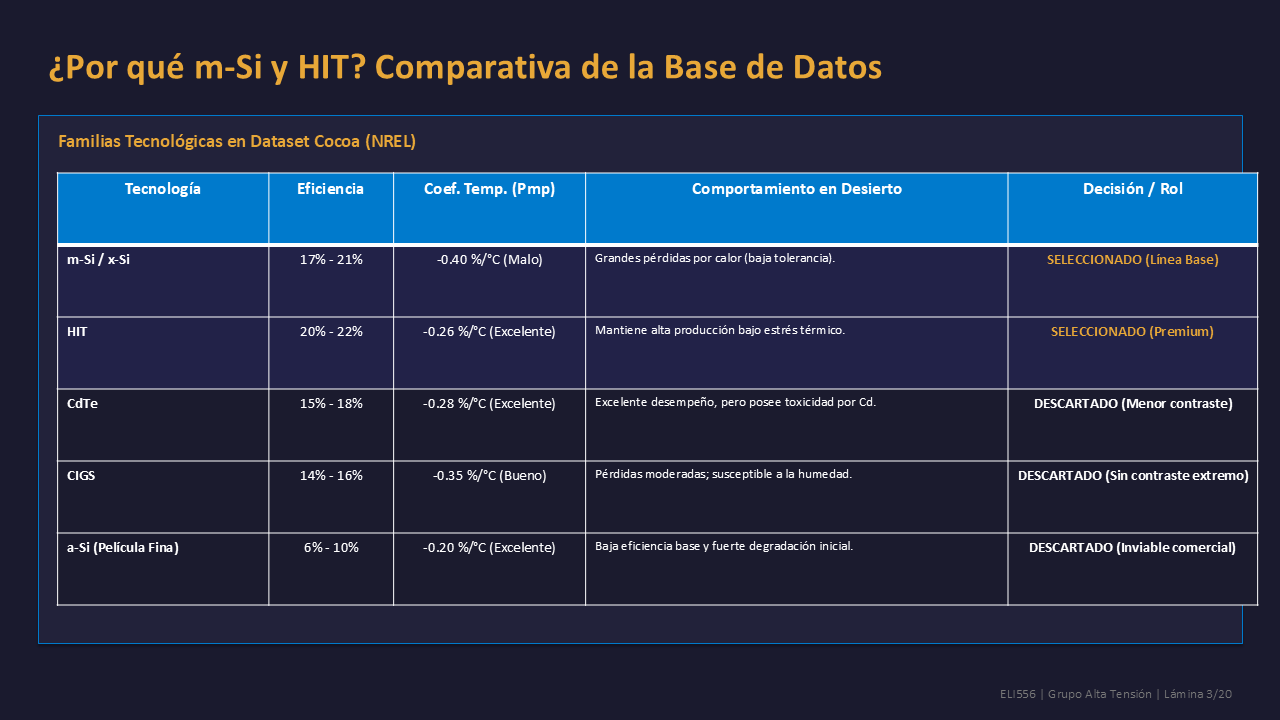
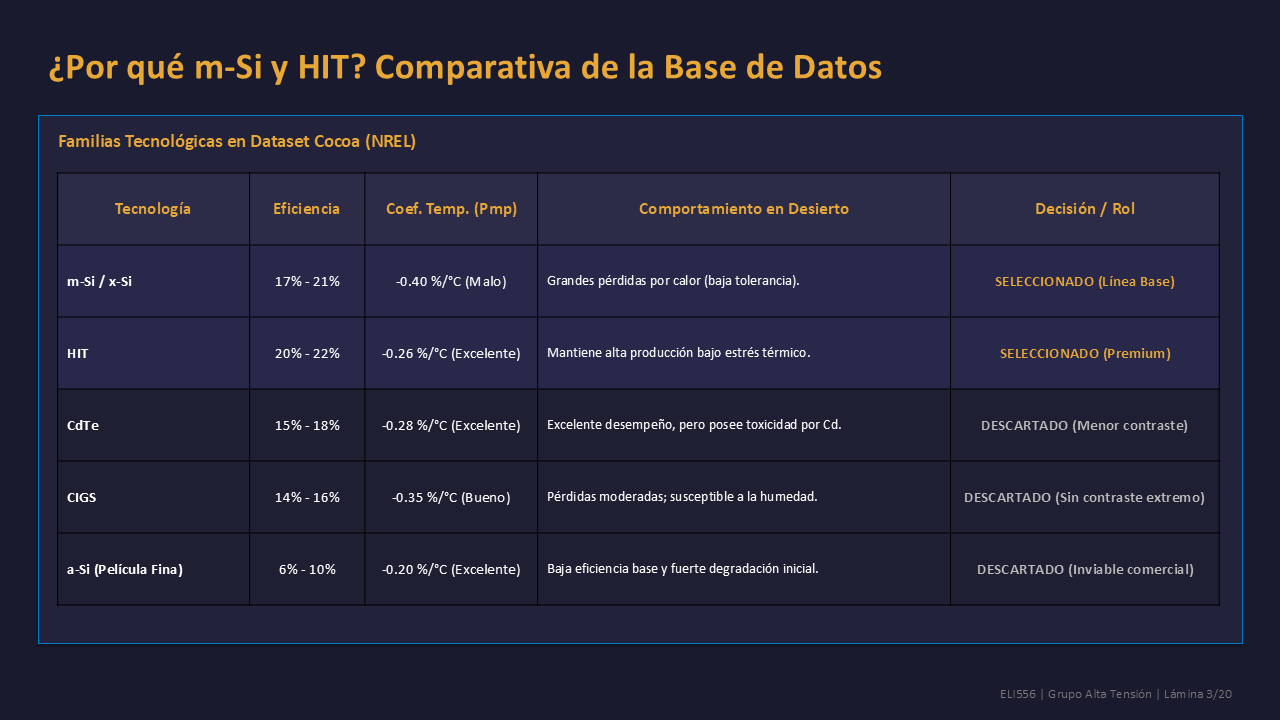
Style fix: Redesign Slide 3 table with dark-mode theme, vertical alignment, and balanced columns

diff --git a/src/fase6_gen_presentation.py b/src/fase6_gen_presentation.py
@@ -1,7 +1,8 @@
 from pptx import Presentation
 from pptx.util import Inches, Pt
 from pptx.dml.color import RGBColor
-from pptx.enum.text import PP_ALIGN
+from pptx.enum.text import PP_ALIGN, MSO_VERTICAL_ANCHOR
+from pptx.oxml.ns import qn
 import os
 
 # --- Configuración del Sistema de Diseño ---
@@ -128,11 +129,18 @@ def create_presentation():
     table_shape = slide.shapes.add_table(rows, cols, left, top, width, height)
     table = table_shape.table
     
-    table.columns[0].width = Inches(2.2) # Tecnología
-    table.columns[1].width = Inches(1.3) # Eficiencia
-    table.columns[2].width = Inches(2.0) # Coef. Temp
-    table.columns[3].width = Inches(4.4) # Comportamiento en Desierto
-    table.columns[4].width = Inches(2.6) # Decisión / Rol
+    # Aplicar estilo "No Style, Table Grid" para eliminar bordes blancos toscos por defecto
+    tbl = table_shape._element.graphic.graphicData.tbl
+    tblPr = tbl.tblPr
+    style_id_element = tblPr.find(qn('a:tableStyleId'))
+    if style_id_element is not None:
+        style_id_element.text = '{5940675A-B579-460E-94D1-54222C63F5DA}'
+    
+    table.columns[0].width = Inches(2.0) # Tecnología
+    table.columns[1].width = Inches(1.2) # Eficiencia
+    table.columns[2].width = Inches(1.8) # Coef. Temp
+    table.columns[3].width = Inches(4.3) # Comportamiento en Desierto
+    table.columns[4].width = Inches(2.8) # Decisión / Rol
     
     headers = ["Tecnología", "Eficiencia", "Coef. Temp. (Pmp)", "Comportamiento en Desierto", "Decisión / Rol"]
     data = [
@@ -147,9 +155,13 @@ def create_presentation():
         cell = table.cell(0, c)
         cell.text = headers[c]
         cell.fill.solid()
-        cell.fill.fore_color.rgb = ACCENT_BLUE
+        cell.fill.fore_color.rgb = RGBColor(0x2C, 0x2C, 0x48) # Encabezado marino premium
+        cell.vertical_anchor = MSO_VERTICAL_ANCHOR.MIDDLE
         for p in cell.text_frame.paragraphs:
-            p.font.bold, p.font.size, p.font.color.rgb, p.alignment = True, Pt(13), TEXT_WHITE, PP_ALIGN.CENTER
+            p.font.bold = True
+            p.font.size = Pt(13)
+            p.font.color.rgb = ACCENT_GOLD
+            p.alignment = PP_ALIGN.CENTER
             
     for r in range(1, rows):
         row_data = data[r-1]
@@ -158,12 +170,31 @@ def create_presentation():
             cell = table.cell(r, c)
             cell.text = row_data[c]
             cell.fill.solid()
-            cell.fill.fore_color.rgb = RGBColor(0x22, 0x22, 0x48) if is_selected else RGBColor(0x1B, 0x1B, 0x2E)
+            # Fila seleccionada vs descartada
+            if is_selected:
+                cell.fill.fore_color.rgb = RGBColor(0x28, 0x28, 0x4B) # Lighter Dark Navy
+            else:
+                cell.fill.fore_color.rgb = RGBColor(0x1F, 0x1F, 0x33) # Darker Dark Navy
+            
+            cell.vertical_anchor = MSO_VERTICAL_ANCHOR.MIDDLE
             for p in cell.text_frame.paragraphs:
-                p.font.size = Pt(10 if c == 3 else 11)
-                p.font.color.rgb = ACCENT_GOLD if (is_selected and c == 4) else TEXT_WHITE
-                if c in [0, 4]: p.font.bold = True
-                if c in [1, 2, 4]: p.alignment = PP_ALIGN.CENTER
+                p.font.size = Pt(10.5 if c == 3 else 11.5)
+                
+                # Resaltar colores según selección
+                if is_selected:
+                    p.font.color.rgb = ACCENT_GOLD if c == 4 else TEXT_WHITE
+                else:
+                    p.font.color.rgb = RGBColor(0xBB, 0xBB, 0xBB) if c == 4 else TEXT_WHITE
+                
+                if c in [0, 4]: 
+                    p.font.bold = True
+                
+                # Alineación adaptativa
+                if c in [1, 2, 4]: 
+                    p.alignment = PP_ALIGN.CENTER
+                else: 
+                    p.alignment = PP_ALIGN.LEFT
+                    
     add_footer(slide, 3, TOTAL_SLIDES)
 
     # --- SLIDE 4: Metodología ---
